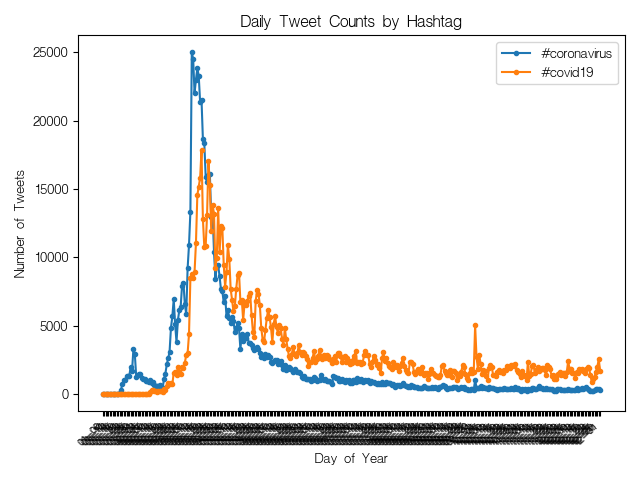
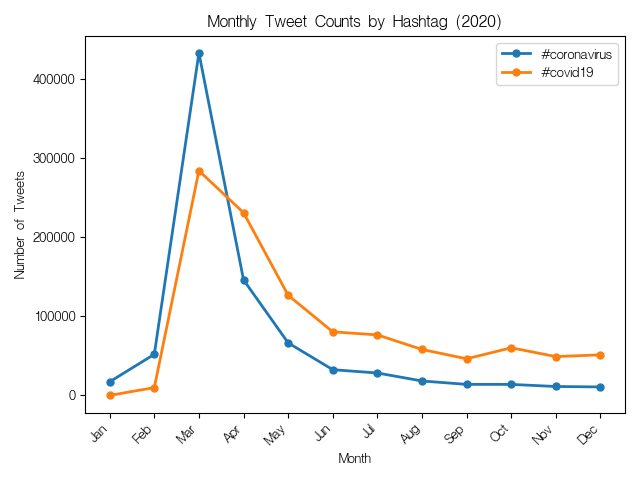
finished

diff --git a/src/alternative_reduce.py b/src/alternative_reduce.py
@@ -15,43 +15,50 @@ import matplotlib
 matplotlib.rcParams['font.family'] = 'Baekmuk Dotum'
 import matplotlib.pyplot as plt
 
+# month number -> abbreviated name
+MONTH_NAMES = {
+    '01': 'Jan', '02': 'Feb', '03': 'Mar', '04': 'Apr',
+    '05': 'May', '06': 'Jun', '07': 'Jul', '08': 'Aug',
+    '09': 'Sep', '10': 'Oct', '11': 'Nov', '12': 'Dec'
+}
+
 # scan through all input files and construct dataset:
-# counts[hashtag][day] = total tweets
+# counts[hashtag][month] = total tweets
 counts = defaultdict(lambda: defaultdict(int))
 
 for path in args.input_paths:
-    # extract day label from filename e.g. "geoTwitter20-02-16.zip.lang" -> "02-16"
+    # extract month from filename e.g. "geoTwitter20-02-16.zip.lang" -> "02"
     basename = os.path.basename(path)
     parts = basename.split('-')
     if len(parts) >= 3:
         month = parts[1]
-        day = parts[2].split('.')[0]
-        day_label = month + '-' + day
     else:
-        day_label = basename
+        month = 'unknown'
 
     with open(path) as f:
         tmp = json.load(f)
 
     for hashtag in args.hashtags:
         if hashtag in tmp:
-            counts[hashtag][day_label] += sum(tmp[hashtag].values())
+            counts[hashtag][month] += sum(tmp[hashtag].values())
 
-# collect all days sorted chronologically
-all_days = sorted(set(
-    day for hashtag in args.hashtags for day in counts[hashtag]
+# collect all months sorted chronologically
+all_months = sorted(set(
+    month for hashtag in args.hashtags for month in counts[hashtag]
 ))
+
+month_labels = [MONTH_NAMES.get(m, m) for m in all_months]
 
 # plot one line per hashtag
 for hashtag in args.hashtags:
-    y_values = [counts[hashtag].get(day, 0) for day in all_days]
-    plt.plot(all_days, y_values, marker='o', markersize=3, linewidth=1.5, label=hashtag)
+    y_values = [counts[hashtag].get(month, 0) for month in all_months]
+    plt.plot(month_labels, y_values, marker='o', markersize=5, linewidth=2, label=hashtag)
 
-plt.xlabel('Day of Year')
+plt.xlabel('Month')
 plt.ylabel('Number of Tweets')
-plt.title('Daily Tweet Counts by Hashtag')
+plt.title('Monthly Tweet Counts by Hashtag (2020)')
 plt.legend()
-plt.xticks(rotation=45, ha='right', fontsize=7)
+plt.xticks(rotation=45, ha='right')
 plt.tight_layout()
 plt.savefig('hashtag_trends.png')
 print('Plot saved to hashtag_trends.png')
